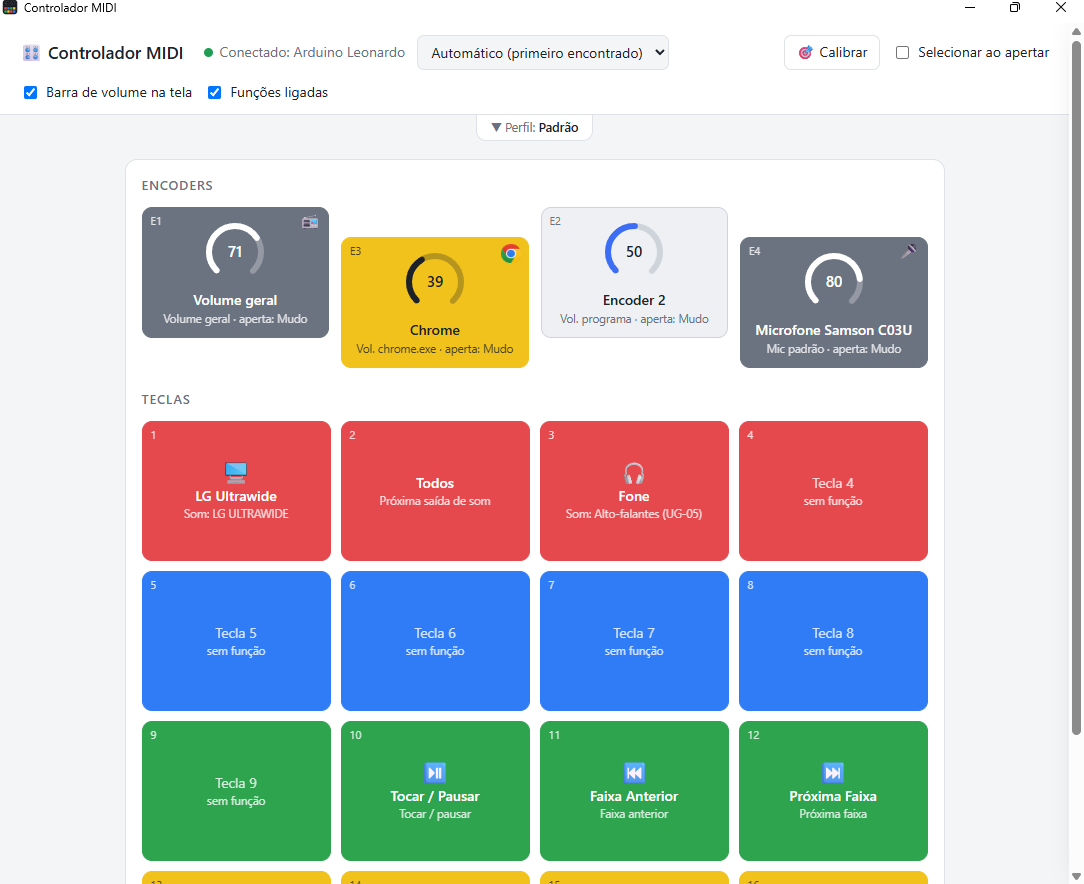
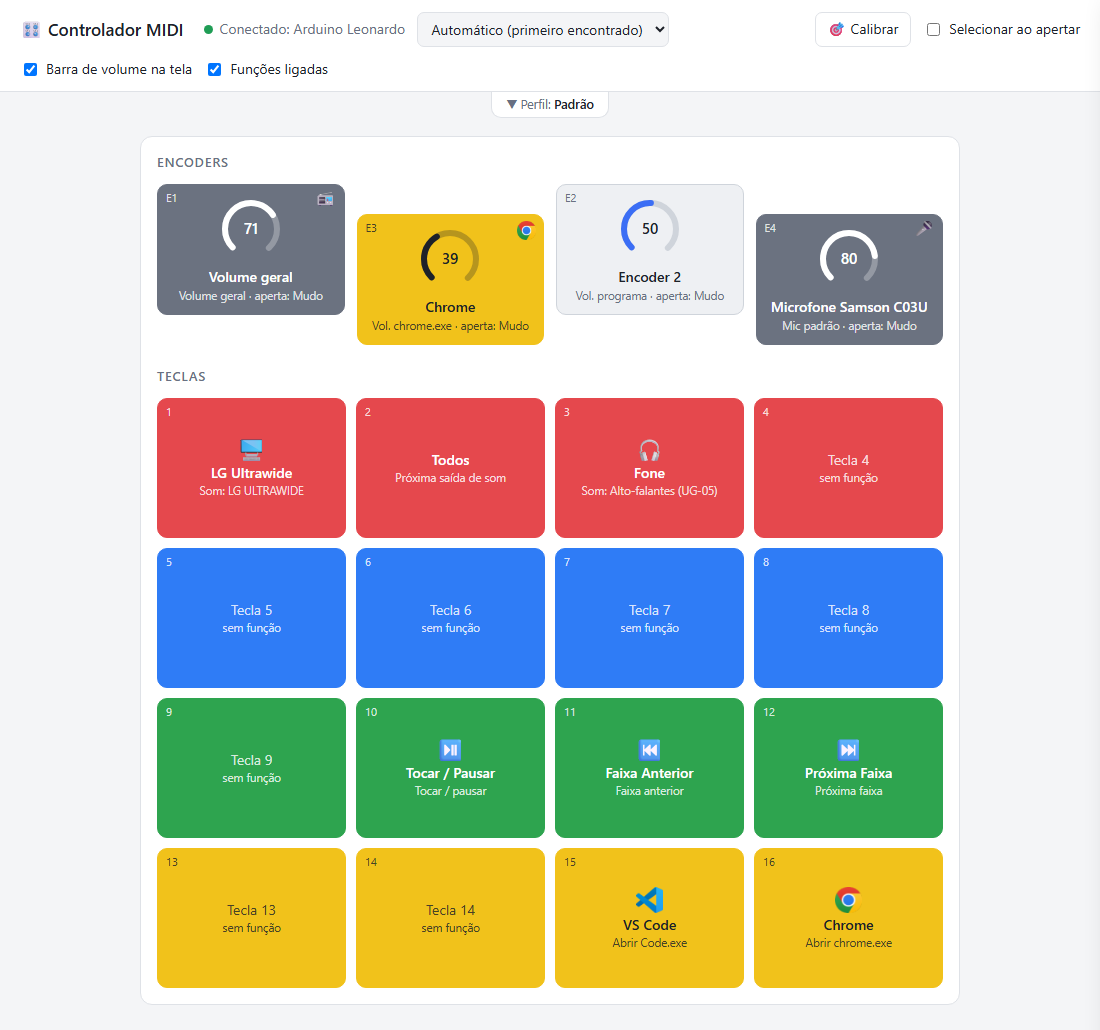
Print da tela inteira; tira as aspas do nome em "Abrir"
O print agora mostra o programa todo (4 knobs e 16 teclas). Na tecla,
um caminho colado com aspas aparecia como 'Abrir Code.exe"'.

diff --git a/web/index.html b/web/index.html
@@ -280,7 +280,7 @@ function resumo(a) {
   switch (a.tipo) {
     case "midia": return midia[a.valor] || "Mídia";
     case "atalho": return a.valor || "Atalho";
-    case "abrir": return "Abrir " + (a.valor || "").split(/[\\/]/).filter(Boolean).pop();
+    case "abrir": return "Abrir " + (a.valor || "").replace(/"/g, "").split(/[\\/]/).filter(Boolean).pop();
     case "texto": return "Digitar “" + (a.valor || "") + "”";
     case "comando": return "Comando";
     case "volume_sistema": return "Volume geral";

diff --git a/CLAUDE.md b/CLAUDE.md
@@ -87,7 +87,9 @@ Programa para Windows que dá funções às teclas e aos encoders de um controla
 - O usuário prefere apps locais em Python com servidor HTTP + janela própria, explicações em português e nada de dependências pesadas.
 
 ## Cópia para o GitHub
-- Fica em `..\Controlador MIDI - GitHub\`: repositório git (branch `main`) com o código, o `README.md` e um `.gitignore` que deixa de fora `config.json`, `Perfis exportados\`, `erro.log`, `build\` e `dist\`.
+- Fica em `..\Controlador MIDI - GitHub\`: um clone de https://github.com/carlostoni/arduino-midi-encoder-controller, o repositório original do usuário (branch `main`).
+  - As versões antigas do firmware ficam em `encoder_matriz/`.
+  - O `.gitignore` deixa de fora `config.json`, `Perfis exportados\`, `erro.log`, `build\` e `dist\`.
 - Ela **não é atualizada sozinha**. Depois de mudar o projeto, copie os arquivos alterados para lá, faça o commit e o push.
 
 ## Versão nativa (.exe portátil)
